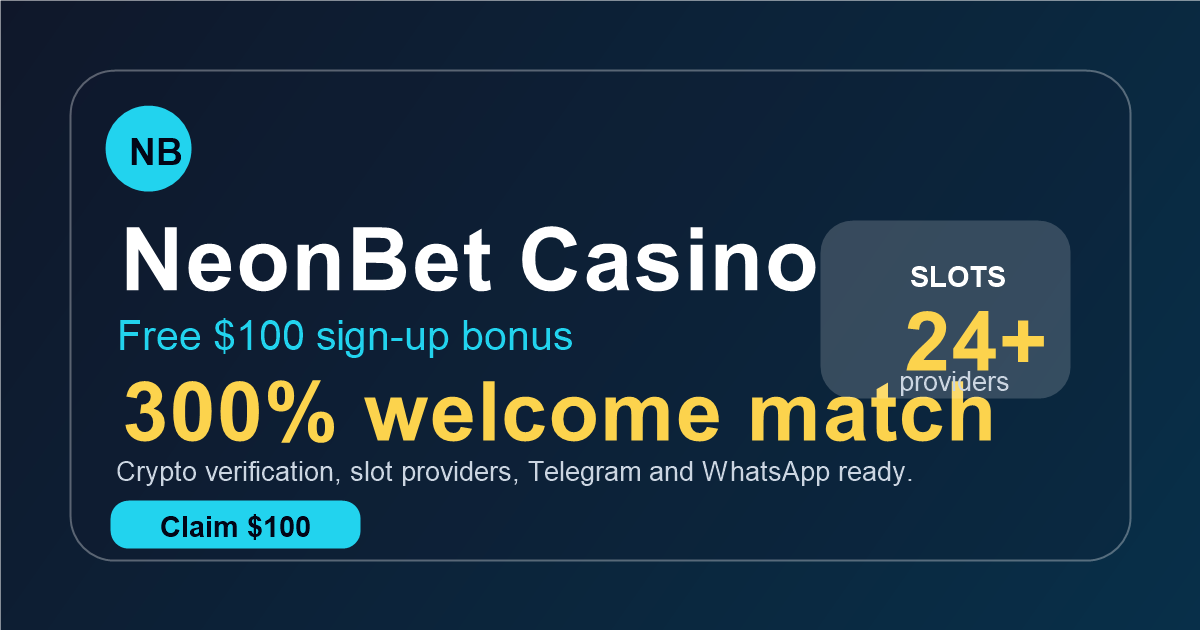
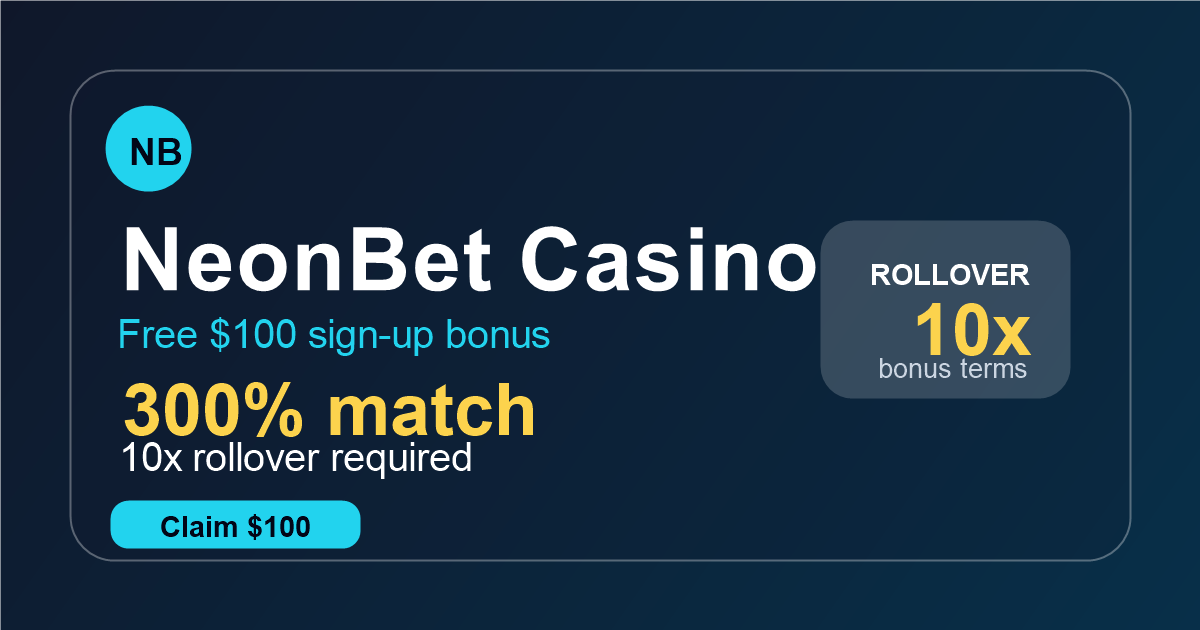
Add 10x bonus rollover terms

Changed region(s): [[0.0925, 0.4825, 0.8633, 0.7841], [0.0925, 0.4825, 0.4933, 0.573], [0.7092, 0.4222, 0.8633, 0.4524]]

diff --git a/src/main.jsx b/src/main.jsx
@@ -38,7 +38,7 @@ const games = [
 ];
 
 const promos = [
-  { title: "Free $100 Sign-Up Bonus", detail: "New accounts can claim $100 plus a 300% welcome match after verification", icon: Gift },
+  { title: "Free $100 Sign-Up Bonus", detail: "New accounts can claim $100 plus a 300% welcome match after verification. Bonus funds require 10x rollover.", icon: Gift },
   { title: "Daily Rewards", detail: "Fresh drops, missions and member rewards every day", icon: Flame },
   { title: "VIP Club", detail: "Level up with missions, rewards and exclusive account perks", icon: Trophy },
 ];
@@ -216,7 +216,7 @@ const verificationConfig = {
 
 const lobbyStats = [
   ["$100", "Sign-up bonus"],
-  ["300%", "Welcome match"],
+  ["10x", "Bonus rollover"],
   ["24+", "Slot providers"],
   ["$75", "Verification"],
 ];
@@ -249,7 +249,7 @@ function Sidebar({ open, setOpen }) {
         <div className="rounded-3xl bg-gradient-to-br from-cyan-500/15 to-purple-500/15 border border-cyan-300/20 p-4 mb-5">
           <p className="text-sm text-slate-300">Sign-Up Bonus</p>
           <p className="text-3xl font-black text-white mt-1">$100</p>
-          <p className="text-xs text-slate-400 mt-1">Plus 300% welcome match</p>
+          <p className="text-xs text-slate-400 mt-1">Plus 300% match, 10x rollover</p>
         </div>
 
         <nav className="space-y-2">
@@ -311,7 +311,7 @@ function Hero() {
             Play the <span className="text-cyan-300">neon lobby</span>.
           </h1>
           <p className="text-slate-300 mt-5 max-w-xl">
-            Claim a free $100 sign-up bonus, unlock a 300% welcome match and browse a loaded slot-provider lobby.
+            Claim a free $100 sign-up bonus, unlock a 300% welcome match and clear a 10x rollover requirement.
           </p>
           <div className="flex flex-wrap gap-3 mt-7">
             <button className="flex items-center gap-2 px-6 py-4 rounded-2xl bg-cyan-400 text-slate-950 font-black shadow-neon"><Play size={18}/> Claim $100</button>

diff --git a/index.html b/index.html
@@ -7,7 +7,7 @@
     <link rel="icon" href="./favicon.svg" type="image/svg+xml" />
     <meta
       name="description"
-      content="NeonBet is a mobile-first crypto casino lobby with a free $100 sign-up bonus, 300% welcome match, slot-provider catalogue, and manual account verification."
+      content="NeonBet is a mobile-first crypto casino lobby with a free $100 sign-up bonus, 300% welcome match, 10x rollover requirement, slot-provider catalogue, and manual account verification."
     />
     <meta name="theme-color" content="#020617" />
     <meta name="mobile-web-app-capable" content="yes" />
@@ -15,7 +15,7 @@
     <meta property="og:title" content="NeonBet Casino" />
     <meta
       property="og:description"
-      content="Claim a free $100 sign-up bonus, unlock a 300% welcome match, browse slot providers, and complete manual crypto account verification."
+      content="Claim a free $100 sign-up bonus, unlock a 300% welcome match with 10x rollover, browse slot providers, and complete manual crypto account verification."
     />
     <meta property="og:image" content="./social-preview.png" />
     <meta property="og:image:width" content="1200" />
@@ -25,7 +25,7 @@
     <meta name="twitter:title" content="NeonBet Casino" />
     <meta
       name="twitter:description"
-      content="Mobile-first crypto casino lobby with a free $100 sign-up bonus, 300% welcome match, and manual $75 account verification."
+      content="Mobile-first crypto casino lobby with a free $100 sign-up bonus, 300% welcome match, 10x rollover, and manual $75 account verification."
     />
     <meta name="twitter:image" content="./social-preview.png" />
   </head>

diff --git a/README.md b/README.md
@@ -6,7 +6,7 @@ This is a React + Vite + Tailwind casino-style landing page and lobby.
 
 This project is a static frontend. It does not include a gambling backend, account database, wallet connection, payment processor, automated verification, deposits, withdrawals, or game-provider integrations.
 
-The site includes a static manual crypto verification panel for a 75 USD account verification fee, plus marketing copy for a free 100 USD sign-up bonus and 300% welcome match. Bonus eligibility, provider availability, verification, and regional access should be governed by your published terms.
+The site includes a static manual crypto verification panel for a 75 USD account verification fee, plus marketing copy for a free 100 USD sign-up bonus, 300% welcome match, and 10x bonus rollover requirement. Bonus eligibility, provider availability, verification, and regional access should be governed by your published terms.
 
 The verification panel currently includes these deposit options:
 